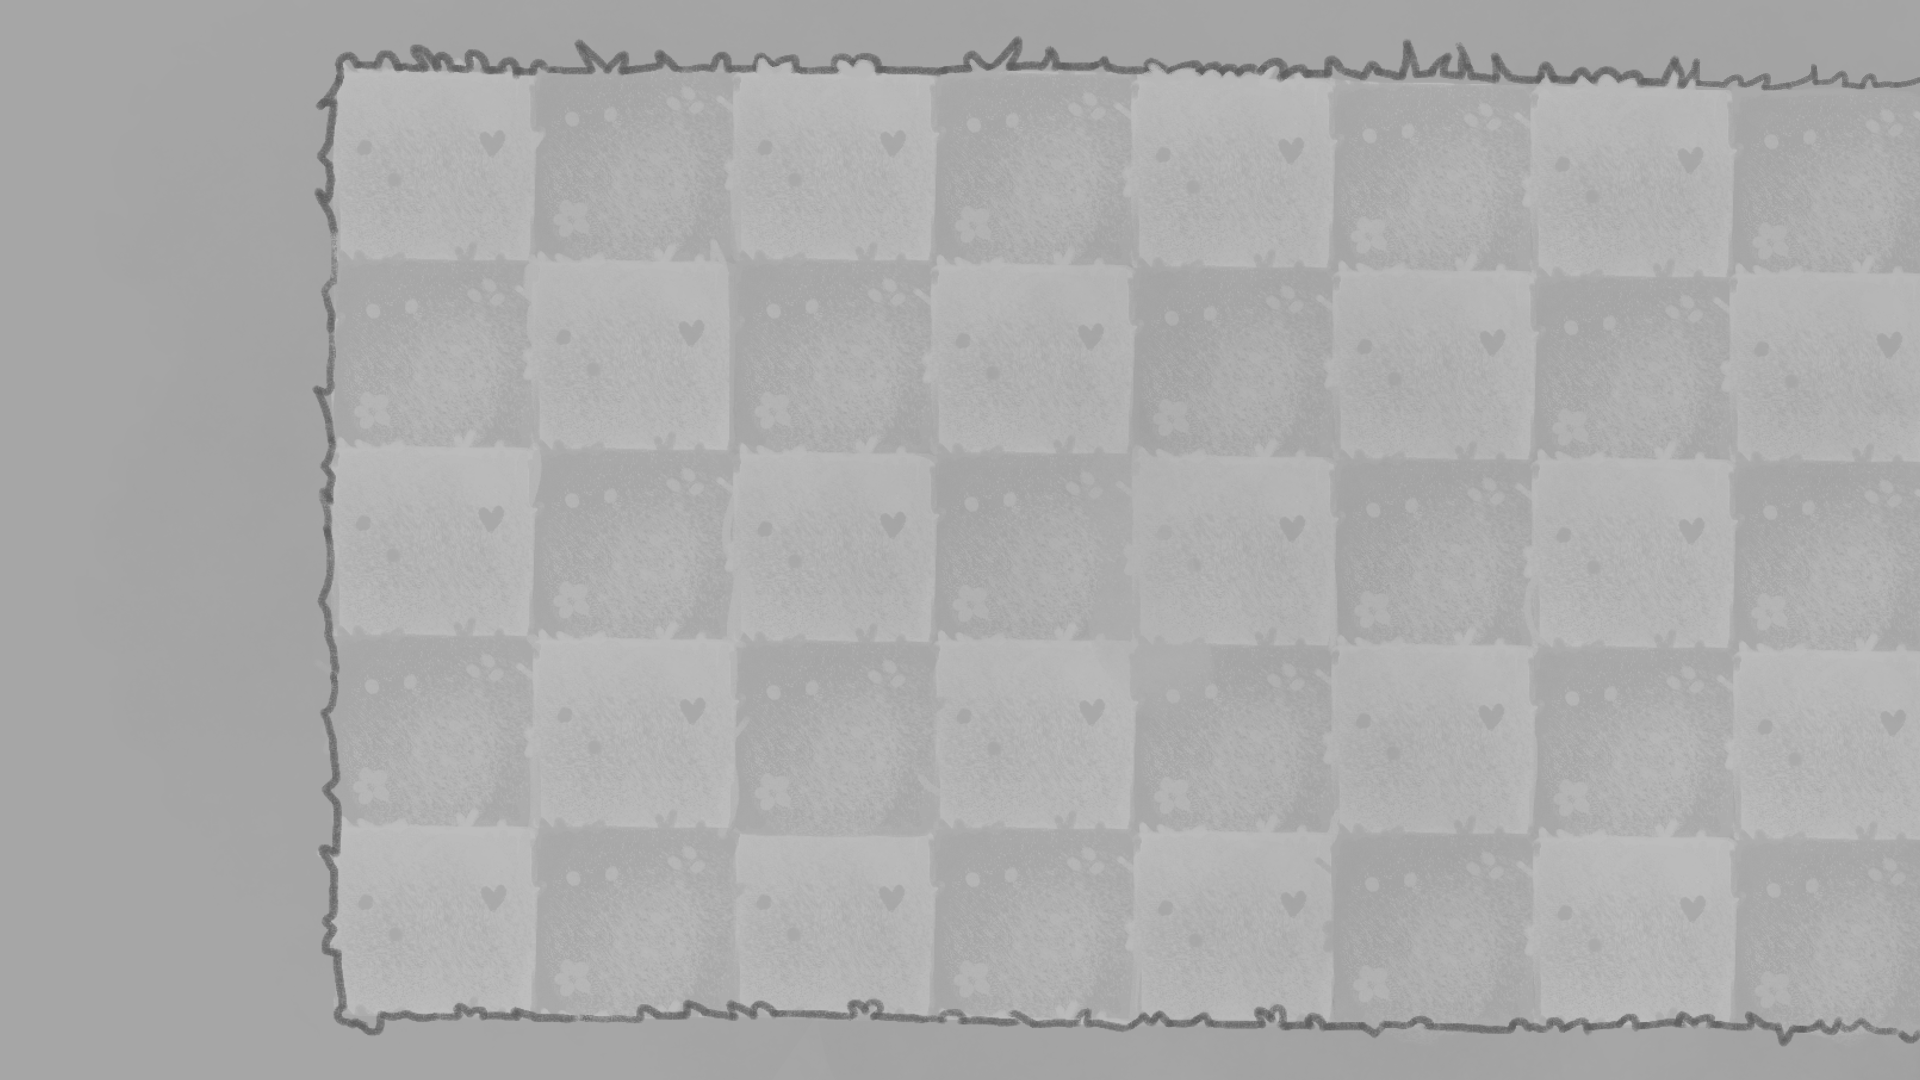
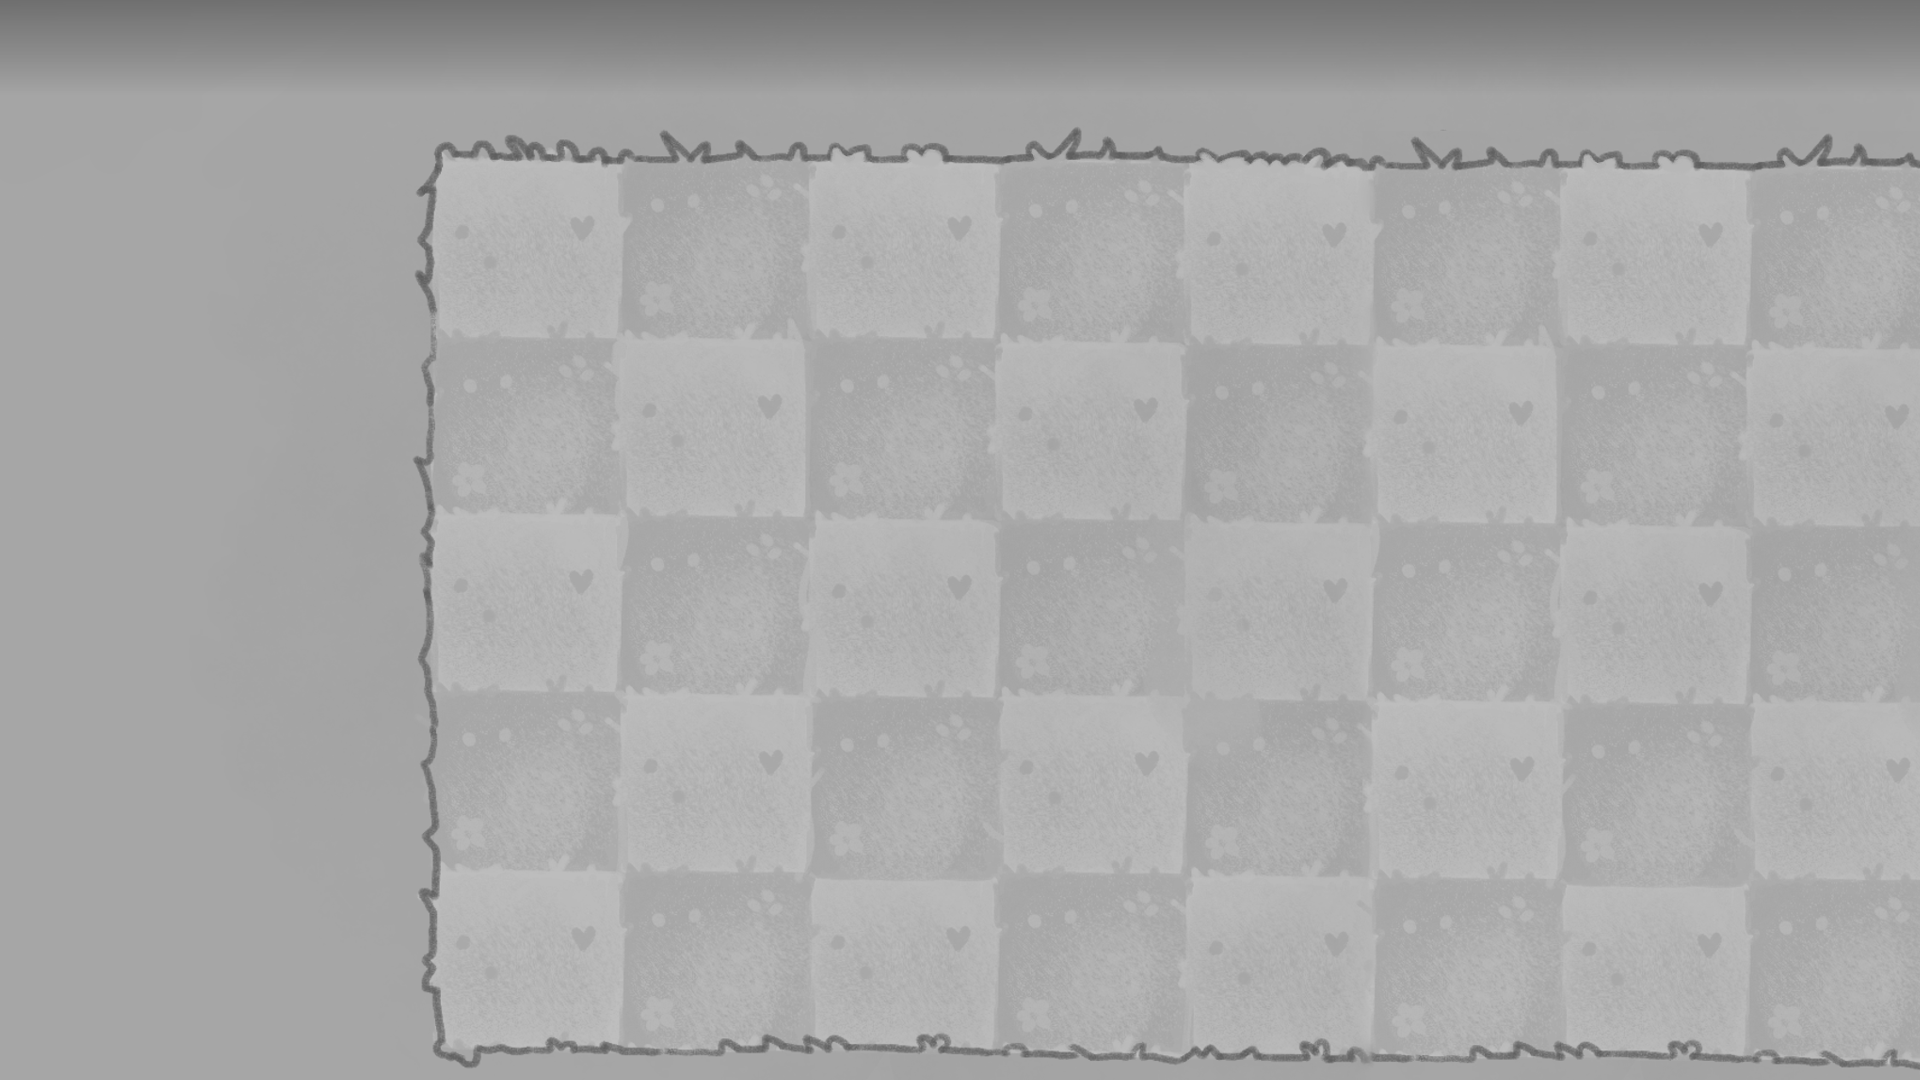
re-escalado de texturas

diff --git a/source/visual.c b/source/visual.c
@@ -37,18 +37,23 @@ void draw(estadojuego *juego){
     BeginDrawing();
         ClearBackground(BLACK); // limpia la pantalla
 
-        int tile_width = 190;
+        int tile_width = 180;
         int tile_offset = 5;
-        int move_x = 360;
-        int move_y = 70;
+        int move_x = 445;
+        int move_y = 150;
+        float rescale = 0.9f; // 10% más pequeño
 
         /* Para dibujar texturas:
         DrawTexture(Texture2D texture, int posX, int posY, Color tint);   
+            // Draw a Texture2D
+        DrawTextureEx(Texture2D texture, Vector2 position, float rotation, float scale, Color tint); 
+            // Draw a Texture2D with rotation and scale
         */
 
         DrawTexture(juego->lawn_texture, 0, 0, WHITE);
 
-        /* // (para visualizar dimensiones)
+        /*
+        // (para visualizar dimensiones)
         // dibuja el tablero
         for(int y = 0; y<FILAS; y++){
             for(int x = 0; x<COLUMNAS; x++){
@@ -58,25 +63,51 @@ void draw(estadojuego *juego){
             }
         }
         */
+        
         // dibuja plantas
         for(int i = 0; i<MAX_PLANTAS; i++){
             planta *p = &juego->lista_plantas[i];
 
             if(p->activo){
                 int p_x = (p->columna * (tile_width + tile_offset)) + (tile_width / 2) + move_x;
-                int p_y = (p->fila * (tile_width + tile_offset)) + (tile_width / 2) + move_y;
+                int p_y = (p->fila * (tile_width + tile_offset)) + (tile_width / 2) + move_y-100;
                 switch(p->tipo){
                     case 1: // lanzaguizantes
-                        DrawTexture(juego->peashooter_texture, p_x-120, p_y-120, WHITE); break;
-                    case 3: // nuez
+                        DrawTextureEx(
+                            juego->peashooter_texture, 
+                            (Vector2){ (float)(p_x - 100), (float)(p_y) }, 
+                            0.0f,
+                            rescale,
+                            WHITE
+                        );
+                        break;
+                    case 3: // nuezDrawTexture(juego->bucket_texture, z_x-20, z_y-80, WHITE);
                         if(p->vida >= 150){
-                            DrawTexture(juego->wall_nut_1_texture, p_x-90, p_y-120, WHITE);
+                            DrawTextureEx(
+                                juego->wall_nut_1_texture, 
+                                (Vector2){ (float)(p_x - 90), (float)(p_y) }, 
+                                0.0f,
+                                rescale,
+                                WHITE
+                            );
                         }
                         else if(p->vida >= 100){
-                            DrawTexture(juego->wall_nut_2_texture, p_x-90, p_y-120, WHITE);
+                            DrawTextureEx(
+                                juego->wall_nut_2_texture, 
+                                (Vector2){ (float)(p_x - 90), (float)(p_y) }, 
+                                0.0f,
+                                rescale,
+                                WHITE
+                            );
                         }
                         else
-                            DrawTexture(juego->wall_nut_3_texture, p_x-90, p_y-120, WHITE);
+                            DrawTextureEx(
+                                juego->wall_nut_3_texture, 
+                                (Vector2){ (float)(p_x - 90), (float)(p_y) }, 
+                                0.0f,
+                                rescale,
+                                WHITE
+                            );
                         break;
                 }
             }
@@ -86,27 +117,73 @@ void draw(estadojuego *juego){
             zombie *z = &juego->lista_zombies[i];
         
             if(z->activo){
-                int z_x = (z->columna * (tile_width + tile_offset)) + (tile_width / 2) + move_x-110;
-                int z_y = (z->fila * (tile_width + tile_offset)) + (tile_width / 2) + move_y-210;
+                int z_x = (z->columna * (tile_width + tile_offset)) + (tile_width / 2) + move_x-100;
+                int z_y = (z->fila * (tile_width + tile_offset)) + (tile_width / 2) + move_y-190;
                 switch(z->tipo){
                     case 1: // zombie común
-                        DrawTexture(juego->zombie_texture,z_x, z_y, WHITE); break;
+                        DrawTextureEx(
+                            juego->zombie_texture, 
+                            (Vector2){ (float)(z_x), (float)(z_y) }, 
+                            0.0f,
+                            rescale,
+                            WHITE
+                        );
+                        break;
                     case 2: // zombie cono
                         if(z->vida > 100){
-                            DrawTexture(juego->zombie_texture, z_x, z_y, WHITE);
-                            DrawTexture(juego->cone_texture, z_x-20, z_y-95, WHITE);
-                            break;
+                            DrawTextureEx(
+                                juego->zombie_texture, 
+                                (Vector2){ (float)(z_x), (float)(z_y) }, 
+                                0.0f,
+                                rescale,
+                                WHITE
+                            );
+                            DrawTextureEx(
+                                juego->cone_texture, 
+                                (Vector2){ (float)(z_x-20), (float)(z_y-80) }, 
+                                0.0f,
+                                rescale,
+                                WHITE
+                            );
+                        break;
                         }
                         else{
-                            DrawTexture(juego->zombie_texture,z_x, z_y, WHITE); break;}
+                            DrawTextureEx(
+                                juego->zombie_texture, 
+                                (Vector2){ (float)(z_x), (float)(z_y) }, 
+                                0.0f,
+                                rescale,
+                                WHITE
+                            );
+                            break;
+                        }
                     case 3: // zombie cubeta
                         if(z->vida > 100){
-                            DrawTexture(juego->zombie_texture,z_x, z_y, WHITE);
-                            DrawTexture(juego->bucket_texture, z_x-20, z_y-80, WHITE);
+                            DrawTextureEx(
+                                juego->zombie_texture, 
+                                (Vector2){ (float)(z_x), (float)(z_y) }, 
+                                0.0f,
+                                rescale,
+                                WHITE
+                            );
+                            DrawTextureEx(
+                                juego->bucket_texture, 
+                                (Vector2){ (float)(z_x-20), (float)(z_y-70) }, 
+                                0.0f,
+                                rescale,
+                                WHITE
+                            );
                             break;
                         }
                         else{
-                            DrawTexture(juego->zombie_texture,z_x, z_y, WHITE); break;}
+                            DrawTextureEx(
+                                juego->zombie_texture, 
+                                (Vector2){ (float)(z_x), (float)(z_y) }, 
+                                0.0f,
+                                rescale,
+                                WHITE
+                            );
+                            break;}
                     case 4: // bandera
                         DrawCircle(z_x, z_y, 20, LIME); break;
                 }
@@ -116,9 +193,9 @@ void draw(estadojuego *juego){
         for(int i = 0; i<MAX_PROYECTILES; i++){
             proyectil *p = &juego->lista_proyectiles[i];
             if(p->activo == 1){
-                int p_x = (p->columna * (tile_width + tile_offset)) + (tile_width / 2) + move_x;
-                int p_y = (p->fila * (tile_width + tile_offset)) + (tile_width / 2) + move_y;
-                DrawCircle(p_x, p_y, 10, WHITE); break;
+                int p_x = (p->columna * (tile_width + tile_offset)) + (tile_width / 2) + move_x -100;
+                int p_y = (p->fila * (tile_width + tile_offset)) + (tile_width / 2) + move_y -120;
+                DrawTexture(juego->pea_texture,p_x, p_y, WHITE);
             }
         }
         /* funciones utiles:

diff --git a/source/main.c b/source/main.c
@@ -35,7 +35,7 @@ int main(){
     zombie_spawn(8,2,1, &juego);
     zombie_spawn(7,1,2, &juego);
     zombie_spawn(7,4,2, &juego);
-    zombie_spawn(8,1,3, &juego);
+    zombie_spawn(8,0,3, &juego);
     //zombie_spawn(7,3,4, &juego);
     // carga las texturas
     texture_load(&juego);
